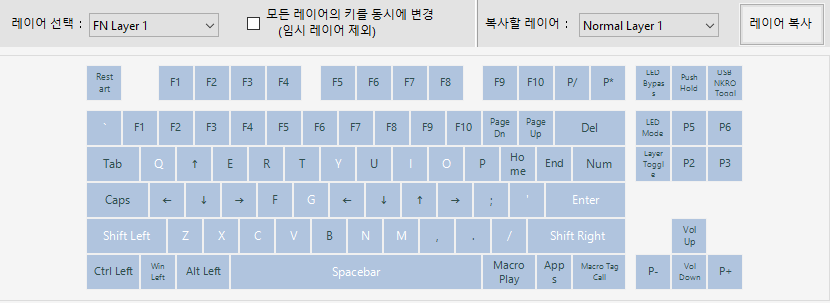
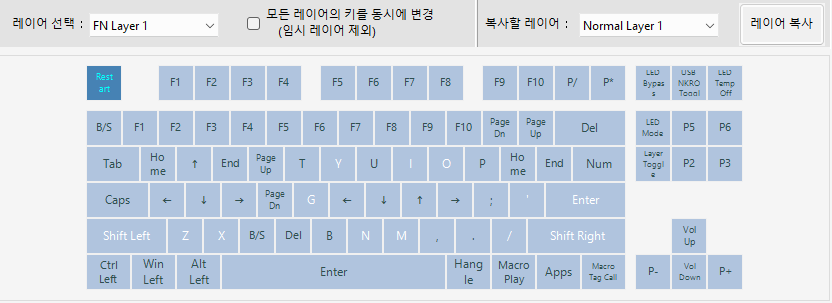
Update key mapping picture

diff --git a/_posts/review/2021-04-12-orion-keyboard.md b/_posts/review/2021-04-12-orion-keyboard.md
@@ -25,13 +25,13 @@ LED의, LED에 의한, LED를 위한 [커스텀 키보드 오리온 2.5](http://
 ![Orion layout](/assets/img/2021-04-12/orion_layout.jpg){:.centered}
 
 사실 커스텀 키보드를 원했던 이유는 외형이 아닌, 'fn키를 활용하여 텐키레스 키보드에서도 65배열과 같은 효과를 낼 수 없을까?'라는 생각에서 였습니다.
-INSERT ~ PAGE DOWN 등의 특수 키도 자주 사용하지만, 알파열 내에서 오른손이 화살표까지 이동하는게 생각보다 자주 불편하다는 느낌을 받았거든요.
+`INSERT` ~ `PAGE DOWN` 등의 특수 키도 자주 사용하지만, 알파열 내에서 오른손이 화살표까지 이동하는게 생각보다 자주 불편하다는 느낌을 받았거든요.
 
-이러던 와중에 이미 지나가버린 [오리온 2.5 공제](https://kbdlab.co.kr/index.php?mid=board_gb_do&document_srl=6180724)를 보았고, led의 자태를 보는 순간 '커스텀 키보드는 이걸 사야겠구나' 라는 생각밖에 안들었습니다.
+이러던 와중에 이미 지나가버린 [오리온 2.5 공제](https://kbdlab.co.kr/index.php?mid=board_gb_do&document_srl=6180724)를 보았고, LED의 자태를 보는 순간 '커스텀 키보드는 이걸 사야겠구나' 라는 생각밖에 안들었습니다.
 가격이 꽤나 나갔지만... 하루에 못해도 8 시간은 사용할텐데, 한 번 큰 마음 먹고 사지 뭐... 라는 생각과 함께요.
 
 갈축, 저적, 흑축 등 여러 기계식 키보드를 근 10년 동안 사용하였지만 스프링 교체 및 윤활을 진행한 키보드는 처음 사용해보았는데... **신세계**를 보았습니다.
-조약돌 소리가 무엇인지, 스페이스나 엔터와 같이 스테빌이 들어가는 특수키들이 이렇게 *"정갈"*할 수가 있는지(전 소리에 정갈하다는 단어를 왜 붙이는건지 이해를 못 했었습니다) 놀라울 따름입니다. 돈은 많이 들었지만 아까운 느낌은 전혀 없네요.
+조약돌 소리가 무엇인지, 스페이스나 엔터와 같이 스테빌이 들어가는 특수키들이 이렇게 *"정갈"*할 수가 있는지 (전 소리에 정갈하다는 단어를 왜 붙이는건지 이해를 못 했었습니다) 놀라울 따름입니다. 돈은 많이 들었지만 아까운 느낌은 전혀 없네요.
 
 예상은 하였지만 오히려 LED를 잘 사용하지 않습니다. 키보드 기본 RGB LED만 켜두고 알파열의 LED는 꺼놓는 경우가 부지기수입니다.
 
@@ -50,21 +50,29 @@ INSERT ~ PAGE DOWN 등의 특수 키도 자주 사용하지만, 알파열 내에
 키보드와 함께 [Snow-Pro 기판](https://kbdlab.co.kr/index.php?mid=board_gqHn82&document_srl=4823632)을 구매하여 조립하였습니다.
 기본 기판보다 RGB LED가 더 많이 달려있고, [자체 프로그램(Snow Tool)](https://kbdlab.co.kr/index.php?mid=board_sw&document_srl=4396654)이 있어 키맵핑 및 LED 설정이 더 쉽다고 합니다. (Snow Pro 기판만 오리온 2.5 키보드의 화살표 위 5개의 인디케이터 모두 켤 수 있는 것으로 알고 있습니다.)
 
-![Key Mapping](/assets/img/2021-04-12/snow_tool.png){:.centered}
+### Key Mapping
 
-FN Layer 키맵핑
+![Key Mapping - Normal Layer](/assets/img/2021-04-12/snow_tool_normal_layer.png){:.centered}
+
+Normal Layer 키 맵핑
 {:.figcaption}
 
-기본 레이아웃에서 Capslock 키를 FN키로 맵핑하였습니다. Capslock의 경우 자주 사용하지도 않는데 너무나 좋은 위치에 있는 키인데요, 이렇게 FN키로 맵핑하면 왼손만으로
-Capslock + wasd로 이동을 할 수 있는등 오른쪽 하단열에 위치한 FN키 대신 사용하기에 매우 편리합니다. 대신 사진처럼 FN Layer에서 Capslock 키를 맵핑하면 됩니다.
-이외에는 wasd / hjkl에 화살표 맵핑을 해주고, home/end 와 Page Up/Down 키맵핑을 적절한 위치에 해줬습니다.
+기본 레이아웃에서 Caps Lock 키를 FN키로 맵핑하였습니다. Caps Lock의 경우 자주 사용하지도 않는데 너무나 좋은 위치에 있는 키인데요, 이렇게 FN키로 맵핑하면 왼손만으로
+Caps Lock + wasd로 이동을 할 수 있는등 오른쪽 하단열에 위치한 FN키 대신 사용하기에 매우 편리합니다.
 
-LED Bypass와 LED Mode는 별개로 키맵핑을 해주는 것이 좋습니다. LED Bypass를 통해 LED를 끌 경우 키보드 응답속도가 더 빨라진다고 하니 참고하시면 좋을 것 같습니다.
+![Key Mapping - FN Layer](/assets/img/2021-04-12/snow_tool.png){:.centered}
 
-간혹가다 키보드 자체 렉이 발생하는 경우가 있습니다. 현재 usb switcher를 사용중인데 전류가 부족해서 발생하는 현상이 아닐까 생각됩니다. 이럴때를 대비해서 `restart` 버튼도 키맵핑하셔서 `soft reset`을 진행하시는게 좋습니다.
+FN Layer 키 맵핑
+{:.figcaption}
+
+이외에는 wasd / hjkl에 화살표 맵핑을 해주고, Home/End 와 Page Up/Down 키 맵핑을 적절한 위치에 해줬습니다.
+
+LED Bypass와 LED Mode는 별개로 키 맵핑을 해주는 것이 좋습니다. LED Bypass를 통해 LED를 끌 경우 키보드 응답속도가 더 빨라진다고 하니 참고하시면 좋을 것 같습니다.
+
+간혹가다 키보드 자체 렉이 발생하는 경우가 있습니다. 현재 USB switcher를 사용중인데 전류가 부족해서 발생하는 현상이 아닐까 생각됩니다. 이럴때를 대비해서 `restart` 버튼도 키맵핑하셔서 `soft reset`을 진행하시는게 좋습니다.
 {:.note title="TIP"}
 
-![Key Mapping](/assets/img/2021-04-12/snow_tool_indicator.png){:.centered}
+![Indicator Setting](/assets/img/2021-04-12/snow_tool_indicator.png){:.centered}
 
 Layer1 ~ 4와 Indicator를 `None`으로 둘 경우 RGB LED의 색변환과 함께 화살표 위 5개의 LED 색이 변합니다. 이렇게 두는 게 심미적으로 훨씬 예쁘더라구요.
 Snow pro 기판의 추가적인 기능들을 사용하지 않기 때문에 기존에 있던 설정들을 다 재외시켰습니다.
